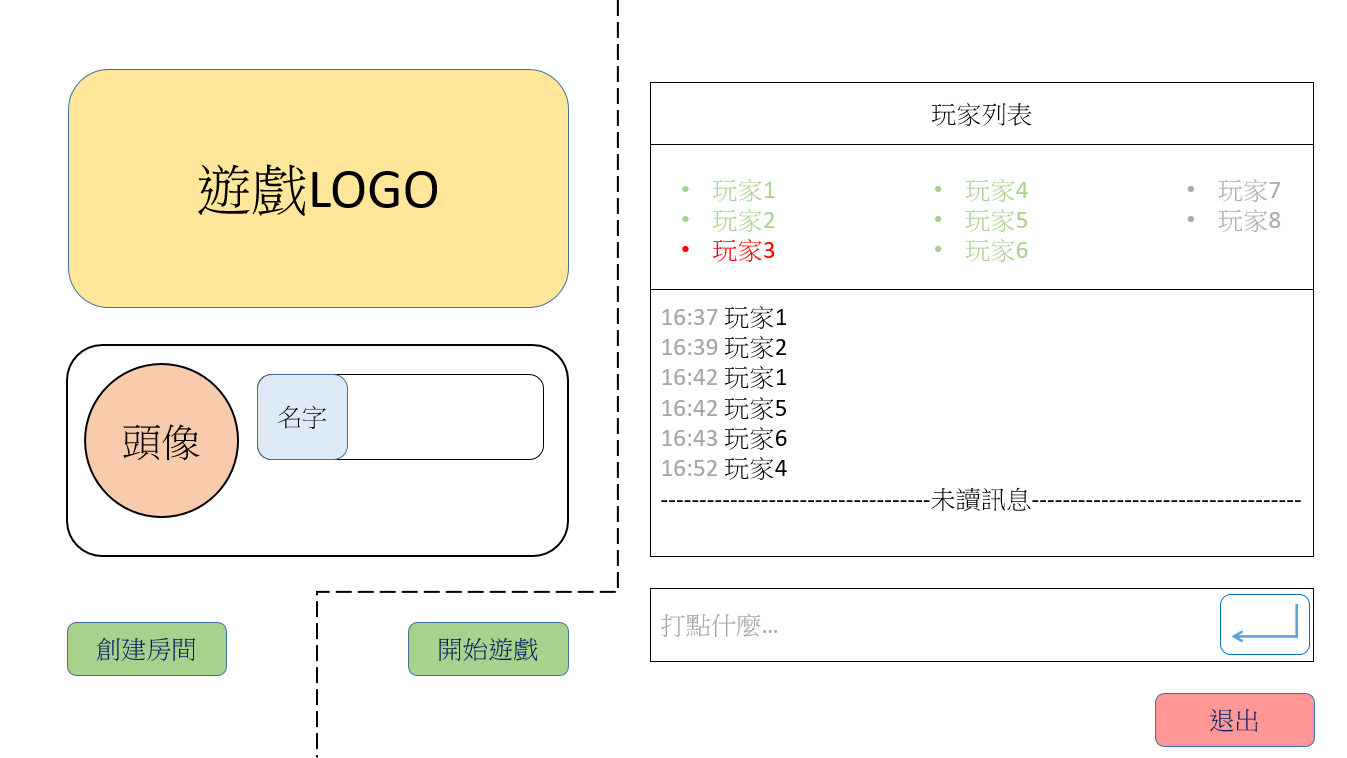
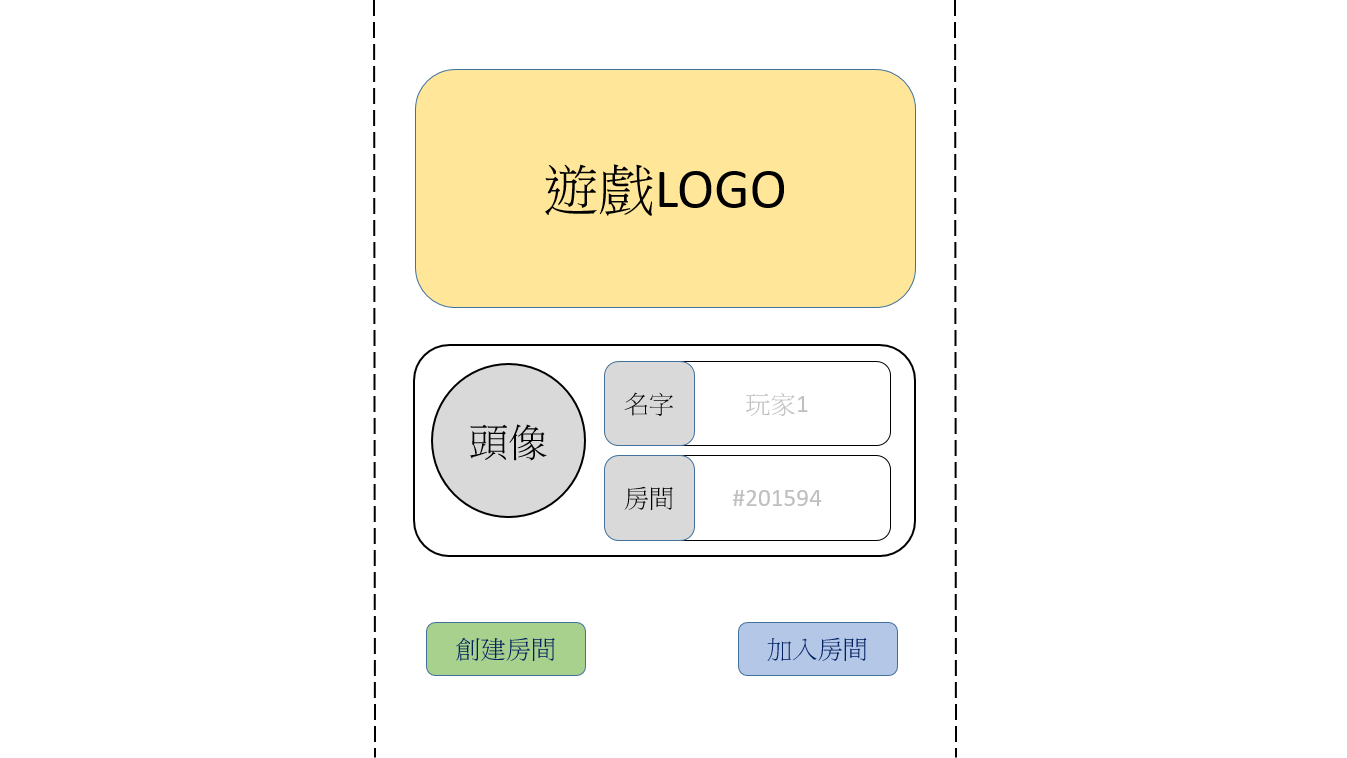
更新網頁設計圖

diff --git a/public/js/login/src/login.js b/public/js/login/src/login.js
@@ -1,0 +1,14 @@
+var hashFunc = function(s){
+	for(var i = 0, h = 0xdeadbeef; i < s.length; i++)
+        h = Math.imul(h ^ s.charCodeAt(i), 2654435761);
+    return (h ^ h >>> 16) >>> 0;
+};
+
+var login = function(playerInfo){
+	let playerAvatar = playerInfo.playerAvatar ? \
+		Avatar_list[playerInfo.playerAvatar] : Avatar_list[0];
+	let playerName = (playerInfo.playerName.length > 0) ? \
+		playerInfo.playerName : Math.floor(Date.now() / 1000).toString();
+	let roomTag = (playerInfo.roomTag.length > 0) ? \
+		playerInfo.roomTag: "";
+};

diff --git a/README.md b/README.md
@@ -8,6 +8,8 @@
 
 ![index](/public/index.png)
 
+![index](/public/waitingRoom.png)
+
 ---
 
 **Functions (包含功能):**
